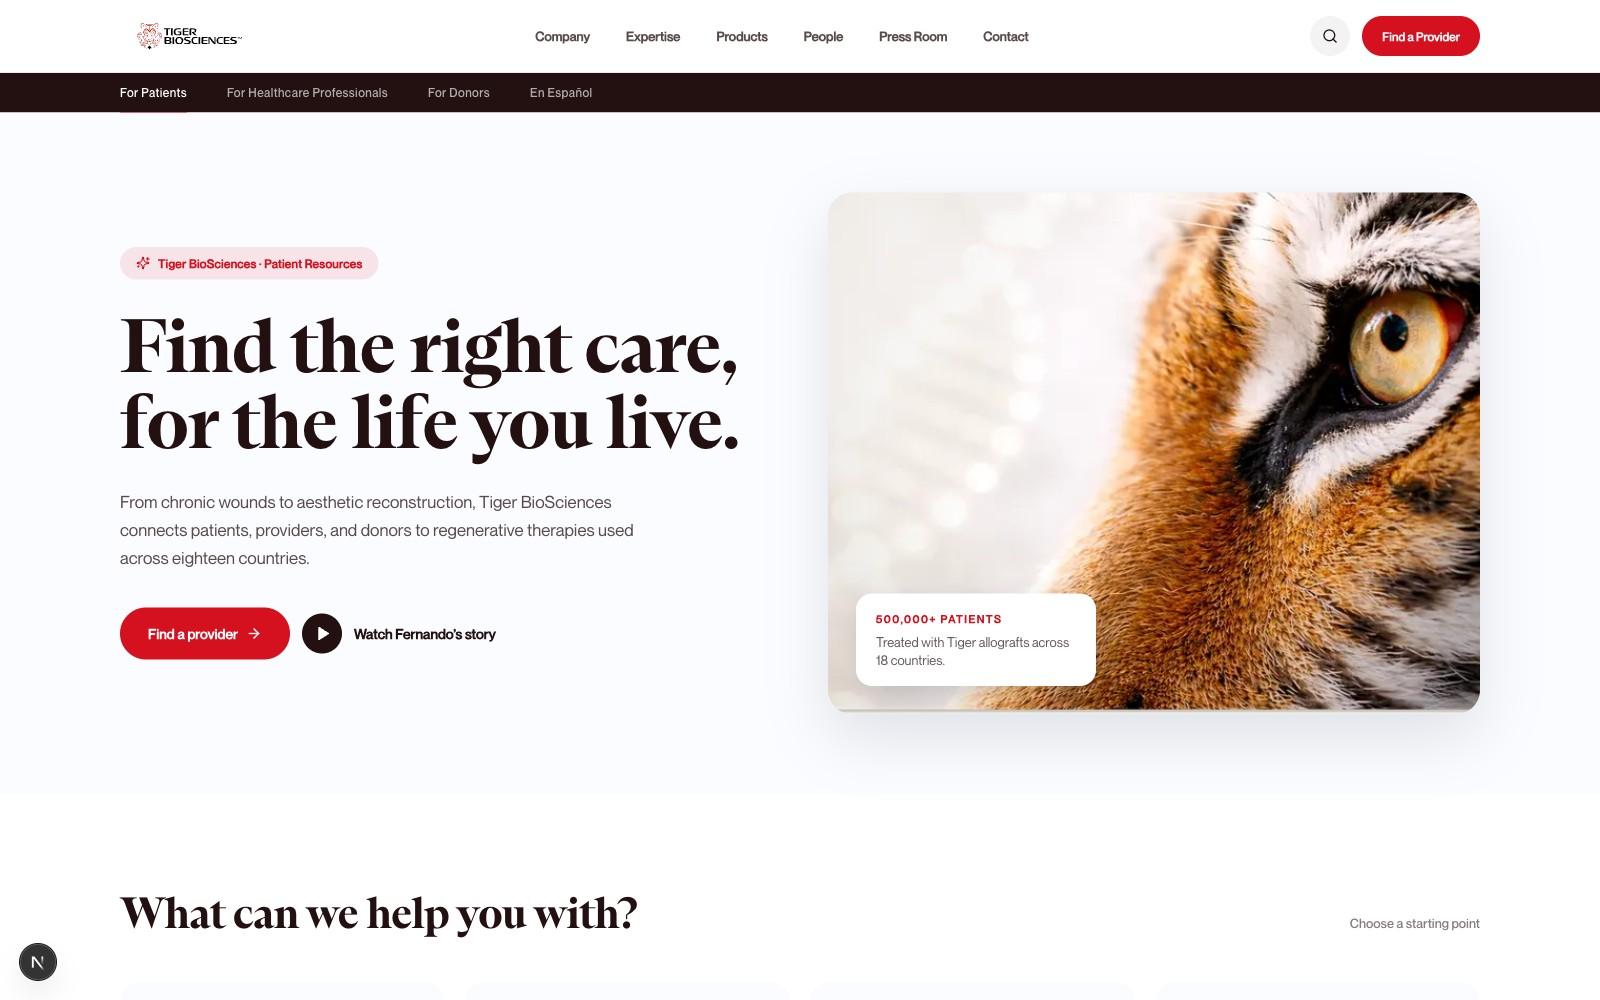
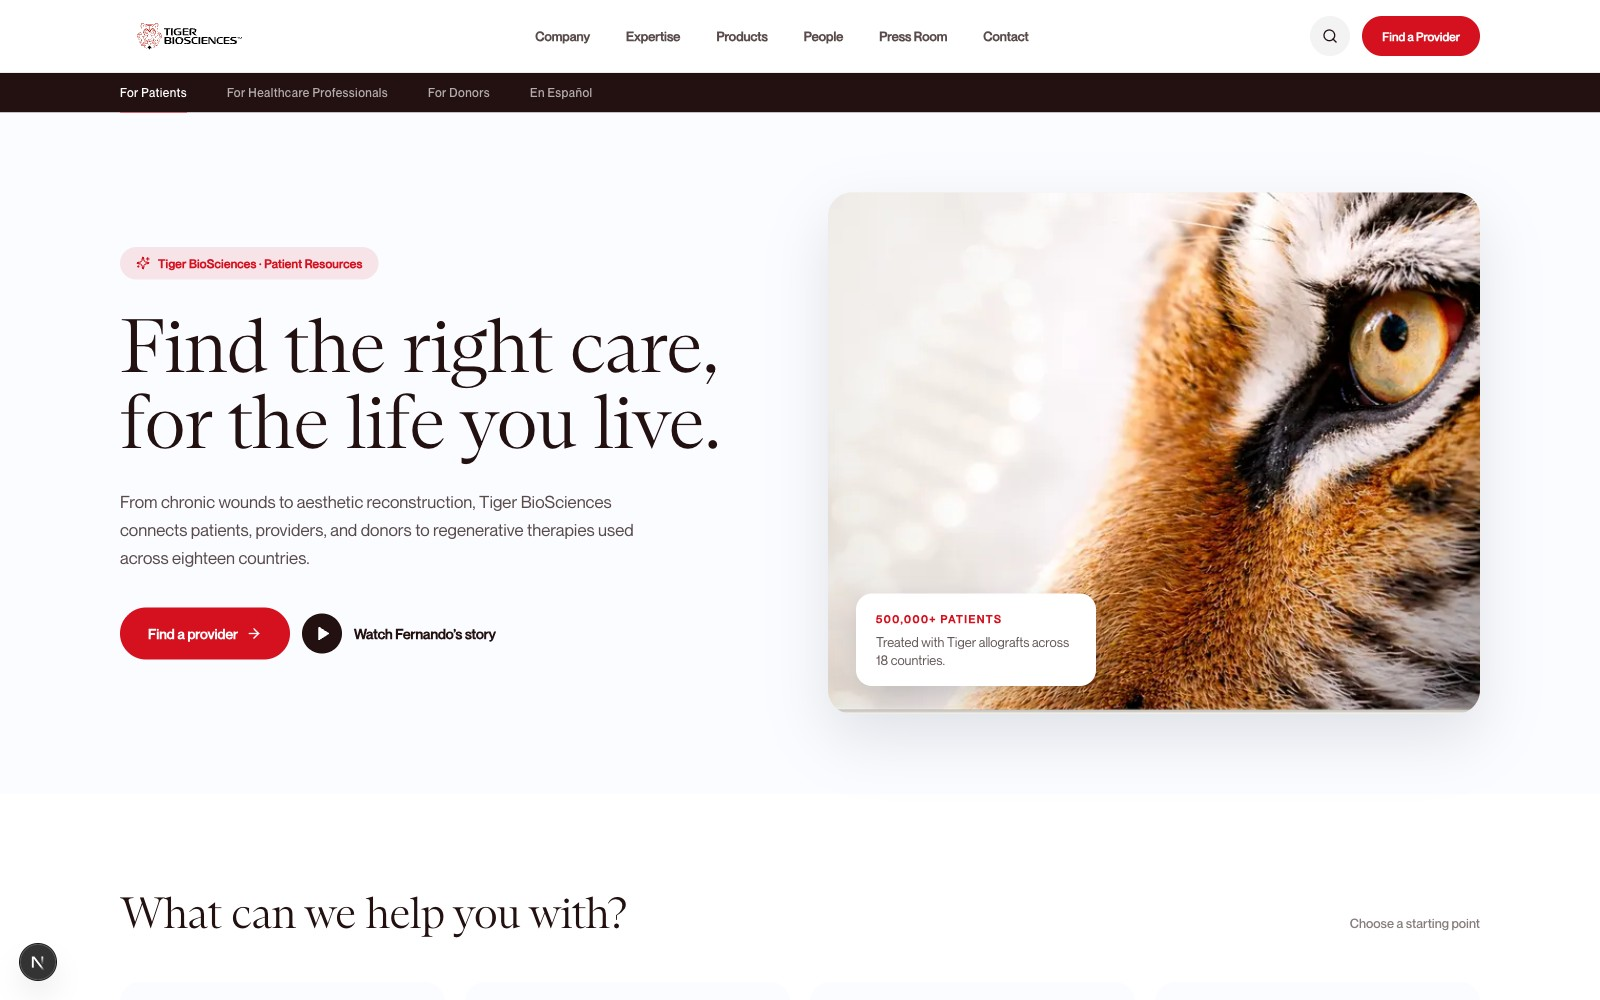
refactor(v3): switch Patient Portal headlines to Tiger brand typography
V3 headings were rendering at font-bold (700) which reads as heavy/Pfizer-like. Tiger's display voice is the light, elegant ABC Arizona Plus weight 300. Flipped every font-display font-bold + fontWeight:700 heading to font-light + fontWeight:300 across the hero, section titles, service cards, steps, insights, FAQ, and footer resource columns. Button labels stay font-bold (Inter sans).

Changed region(s): [[0.0625, 0.31, 0.4688, 0.465], [0.0625, 0.899, 0.4062, 0.93]]

diff --git a/app/home-variant-3/page.tsx b/app/home-variant-3/page.tsx
@@ -250,8 +250,8 @@ export default function HomeVariant3() {
                 initial={{ opacity: 0, y: 24 }}
                 animate={{ opacity: 1, y: 0 }}
                 transition={{ duration: 0.8, delay: 0.2, ease: [0.22, 1, 0.36, 1] as const }}
-                className="font-display font-bold text-[#231010] tracking-[-1.5px] leading-[1]"
-                style={{ fontSize: "clamp(40px, 5.2vw, 76px)", fontWeight: 700 }}
+                className="font-display font-light text-[#231010] tracking-[-1.5px] leading-[1]"
+                style={{ fontSize: "clamp(40px, 5.2vw, 76px)", fontWeight: 300 }}
               >
                 Find the right care, for the life you live.
               </motion.h1>
@@ -328,8 +328,8 @@ export default function HomeVariant3() {
         <div className="max-w-[1440px] mx-auto px-6 md:px-10 py-16 md:py-24">
           <div className="flex items-end justify-between flex-wrap gap-4 mb-10 md:mb-12">
             <h2
-              className="font-display font-bold text-[#231010] tracking-[-1px] leading-[1]"
-              style={{ fontSize: "clamp(28px, 3.4vw, 44px)", fontWeight: 700 }}
+              className="font-display font-light text-[#231010] tracking-[-1px] leading-[1]"
+              style={{ fontSize: "clamp(28px, 3.4vw, 44px)", fontWeight: 300 }}
             >
               What can we help you with?
             </h2>
@@ -354,7 +354,7 @@ export default function HomeVariant3() {
                   <div className="size-12 rounded-full bg-white group-hover:bg-white/20 flex items-center justify-center mb-6 transition-colors">
                     <s.icon className="size-5 text-[#D5101F] group-hover:text-white transition-colors" strokeWidth={2} />
                   </div>
-                  <h3 className="font-display font-bold text-[20px] text-[#231010] group-hover:text-white tracking-[-0.3px] leading-[1.2] mb-3" style={{ fontWeight: 700 }}>
+                  <h3 className="font-display font-light text-[20px] text-[#231010] group-hover:text-white tracking-[-0.3px] leading-[1.2] mb-3" style={{ fontWeight: 300 }}>
                     {s.title}
                   </h3>
                   <p className="text-[14px] text-[#231010]/70 group-hover:text-white/85 leading-[1.55] mb-6 flex-1">
@@ -383,8 +383,8 @@ export default function HomeVariant3() {
                 Ask Tiger · AI-assisted answers
               </div>
               <h2
-                className="font-display font-bold tracking-[-1px] leading-[1.05]"
-                style={{ fontSize: "clamp(30px, 3.6vw, 52px)", fontWeight: 700 }}
+                className="font-display font-light tracking-[-1px] leading-[1.05]"
+                style={{ fontSize: "clamp(30px, 3.6vw, 52px)", fontWeight: 300 }}
               >
                 Have a question? Ask in plain English.
               </h2>
@@ -454,8 +454,8 @@ export default function HomeVariant3() {
                 Browse by condition
               </div>
               <h2
-                className="font-display font-bold text-[#231010] tracking-[-1px] leading-[1]"
-                style={{ fontSize: "clamp(28px, 3.4vw, 48px)", fontWeight: 700 }}
+                className="font-display font-light text-[#231010] tracking-[-1px] leading-[1]"
+                style={{ fontSize: "clamp(28px, 3.4vw, 48px)", fontWeight: 300 }}
               >
                 Care pathways for the questions you&rsquo;re actually asking.
               </h2>
@@ -495,7 +495,7 @@ export default function HomeVariant3() {
                     <div className="text-[11px] uppercase tracking-[1.5px] text-[#D5101F] font-semibold">
                       {c.tag}
                     </div>
-                    <h3 className="font-display font-bold text-[22px] text-[#231010] tracking-[-0.3px] leading-[1.2]" style={{ fontWeight: 700 }}>
+                    <h3 className="font-display font-light text-[22px] text-[#231010] tracking-[-0.3px] leading-[1.2]" style={{ fontWeight: 300 }}>
                       {c.title}
                     </h3>
                     <p className="text-[14px] text-[#231010]/70 leading-[1.6]">
@@ -524,8 +524,8 @@ export default function HomeVariant3() {
               Our impact
             </div>
             <h2
-              className="font-display font-bold tracking-[-1px] leading-[1.05]"
-              style={{ fontSize: "clamp(30px, 3.6vw, 52px)", fontWeight: 700 }}
+              className="font-display font-light tracking-[-1px] leading-[1.05]"
+              style={{ fontSize: "clamp(30px, 3.6vw, 52px)", fontWeight: 300 }}
             >
               Fifteen years of outcomes — measured, published, and peer-reviewed.
             </h2>
@@ -547,8 +547,8 @@ export default function HomeVariant3() {
                 className="space-y-2 border-t border-white/15 pt-5"
               >
                 <div
-                  className="font-display font-bold tracking-[-1.5px] leading-none"
-                  style={{ fontSize: "clamp(44px, 4.6vw, 76px)", fontWeight: 700 }}
+                  className="font-display font-light tracking-[-1.5px] leading-none"
+                  style={{ fontSize: "clamp(44px, 4.6vw, 76px)", fontWeight: 300 }}
                 >
                   {s.v}
                 </div>
@@ -576,8 +576,8 @@ export default function HomeVariant3() {
                 Patient stories
               </div>
               <h2
-                className="font-display font-bold text-[#231010] tracking-[-1px] leading-[1.05]"
-                style={{ fontSize: "clamp(28px, 3.4vw, 48px)", fontWeight: 700 }}
+                className="font-display font-light text-[#231010] tracking-[-1px] leading-[1.05]"
+                style={{ fontSize: "clamp(28px, 3.4vw, 48px)", fontWeight: 300 }}
               >
                 What healing looks like, in their own words.
               </h2>
@@ -632,8 +632,8 @@ export default function HomeVariant3() {
                 How it works
               </div>
               <h2
-                className="font-display font-bold text-[#231010] tracking-[-1px] leading-[1.05]"
-                style={{ fontSize: "clamp(28px, 3.4vw, 48px)", fontWeight: 700 }}
+                className="font-display font-light text-[#231010] tracking-[-1px] leading-[1.05]"
+                style={{ fontSize: "clamp(28px, 3.4vw, 48px)", fontWeight: 300 }}
               >
                 Getting started takes four steps.
               </h2>
@@ -651,12 +651,12 @@ export default function HomeVariant3() {
                 className="relative bg-white border border-[#231010]/[0.08] rounded-[20px] p-7 md:p-8"
               >
                 <div
-                  className="font-display font-bold text-[#D5101F] tracking-[-1px] leading-none mb-5"
-                  style={{ fontSize: "clamp(40px, 3.4vw, 52px)", fontWeight: 700 }}
+                  className="font-display font-light text-[#D5101F] tracking-[-1px] leading-none mb-5"
+                  style={{ fontSize: "clamp(40px, 3.4vw, 52px)", fontWeight: 300 }}
                 >
                   {step.n}
                 </div>
-                <h3 className="font-display font-bold text-[18px] md:text-[20px] text-[#231010] tracking-[-0.3px] leading-[1.2] mb-3" style={{ fontWeight: 700 }}>
+                <h3 className="font-display font-light text-[18px] md:text-[20px] text-[#231010] tracking-[-0.3px] leading-[1.2] mb-3" style={{ fontWeight: 300 }}>
                   {step.title}
                 </h3>
                 <p className="text-[14px] text-[#231010]/70 leading-[1.6]">
@@ -680,8 +680,8 @@ export default function HomeVariant3() {
                 Health insights
               </div>
               <h2
-                className="font-display font-bold text-[#231010] tracking-[-1px] leading-[1.05]"
-                style={{ fontSize: "clamp(28px, 3.4vw, 48px)", fontWeight: 700 }}
+                className="font-display font-light text-[#231010] tracking-[-1px] leading-[1.05]"
+                style={{ fontSize: "clamp(28px, 3.4vw, 48px)", fontWeight: 300 }}
               >
                 Explainers to help you make informed decisions.
               </h2>
@@ -719,7 +719,7 @@ export default function HomeVariant3() {
                     <span className="w-1 h-1 rounded-full bg-[#231010]/30" />
                     <span className="text-[#231010]/55 font-medium">{insight.readTime}</span>
                   </div>
-                  <h3 className="font-display font-bold text-[#231010] tracking-[-0.3px] leading-[1.25] group-hover:text-[#D5101F] transition-colors" style={{ fontSize: "clamp(18px, 1.5vw, 22px)", fontWeight: 700 }}>
+                  <h3 className="font-display font-light text-[#231010] tracking-[-0.3px] leading-[1.25] group-hover:text-[#D5101F] transition-colors" style={{ fontSize: "clamp(18px, 1.5vw, 22px)", fontWeight: 300 }}>
                     {insight.title}
                   </h3>
                 </Link>
@@ -740,8 +740,8 @@ export default function HomeVariant3() {
               Frequently asked
             </div>
             <h2
-              className="font-display font-bold text-[#231010] tracking-[-1px] leading-[1.05]"
-              style={{ fontSize: "clamp(28px, 3.4vw, 48px)", fontWeight: 700 }}
+              className="font-display font-light text-[#231010] tracking-[-1px] leading-[1.05]"
+              style={{ fontSize: "clamp(28px, 3.4vw, 48px)", fontWeight: 300 }}
             >
               Answers to common questions.
             </h2>
@@ -751,7 +751,7 @@ export default function HomeVariant3() {
             {faqs.map((f, i) => (
               <details key={f.q} className="group" {...(i === 0 ? { open: true } : {})}>
                 <summary className="flex items-center justify-between gap-6 py-5 md:py-6 cursor-pointer list-none">
-                  <span className="font-display font-bold text-[17px] md:text-[19px] text-[#231010] tracking-[-0.2px]" style={{ fontWeight: 700 }}>
+                  <span className="font-display font-light text-[17px] md:text-[19px] text-[#231010] tracking-[-0.2px]" style={{ fontWeight: 300 }}>
                     {f.q}
                   </span>
                   <ChevronDown className="size-5 text-[#D5101F] shrink-0 transition-transform group-open:rotate-180" />
@@ -791,8 +791,8 @@ export default function HomeVariant3() {
                   Patient assistance
                 </div>
                 <h3
-                  className="font-display font-bold tracking-[-1px] leading-[1.05]"
-                  style={{ fontSize: "clamp(28px, 3.4vw, 48px)", fontWeight: 700 }}
+                  className="font-display font-light tracking-[-1px] leading-[1.05]"
+                  style={{ fontSize: "clamp(28px, 3.4vw, 48px)", fontWeight: 300 }}
                 >
                   Eligible patients may pay as little as $0 per treatment.
                 </h3>
@@ -827,7 +827,7 @@ export default function HomeVariant3() {
               <div className="text-[11px] uppercase tracking-[1.5px] text-[#D5101F] font-semibold">
                 Patients
               </div>
-              <h4 className="font-display font-bold text-[22px] text-[#231010] tracking-[-0.3px]" style={{ fontWeight: 700 }}>
+              <h4 className="font-display font-light text-[22px] text-[#231010] tracking-[-0.3px]" style={{ fontWeight: 300 }}>
                 Understand your treatment.
               </h4>
               <p className="text-[14px] text-[#231010]/70 leading-[1.6]">
@@ -841,7 +841,7 @@ export default function HomeVariant3() {
               <div className="text-[11px] uppercase tracking-[1.5px] text-[#D5101F] font-semibold">
                 Clinicians
               </div>
-              <h4 className="font-display font-bold text-[22px] text-[#231010] tracking-[-0.3px]" style={{ fontWeight: 700 }}>
+              <h4 className="font-display font-light text-[22px] text-[#231010] tracking-[-0.3px]" style={{ fontWeight: 300 }}>
                 Clinical evidence and dosing.
               </h4>
               <p className="text-[14px] text-[#231010]/70 leading-[1.6]">
@@ -855,7 +855,7 @@ export default function HomeVariant3() {
               <div className="text-[11px] uppercase tracking-[1.5px] text-[#D5101F] font-semibold">
                 Donors
               </div>
-              <h4 className="font-display font-bold text-[22px] text-[#231010] tracking-[-0.3px]" style={{ fontWeight: 700 }}>
+              <h4 className="font-display font-light text-[22px] text-[#231010] tracking-[-0.3px]" style={{ fontWeight: 300 }}>
                 The gift behind every graft.
               </h4>
               <p className="text-[14px] text-[#231010]/70 leading-[1.6]">
